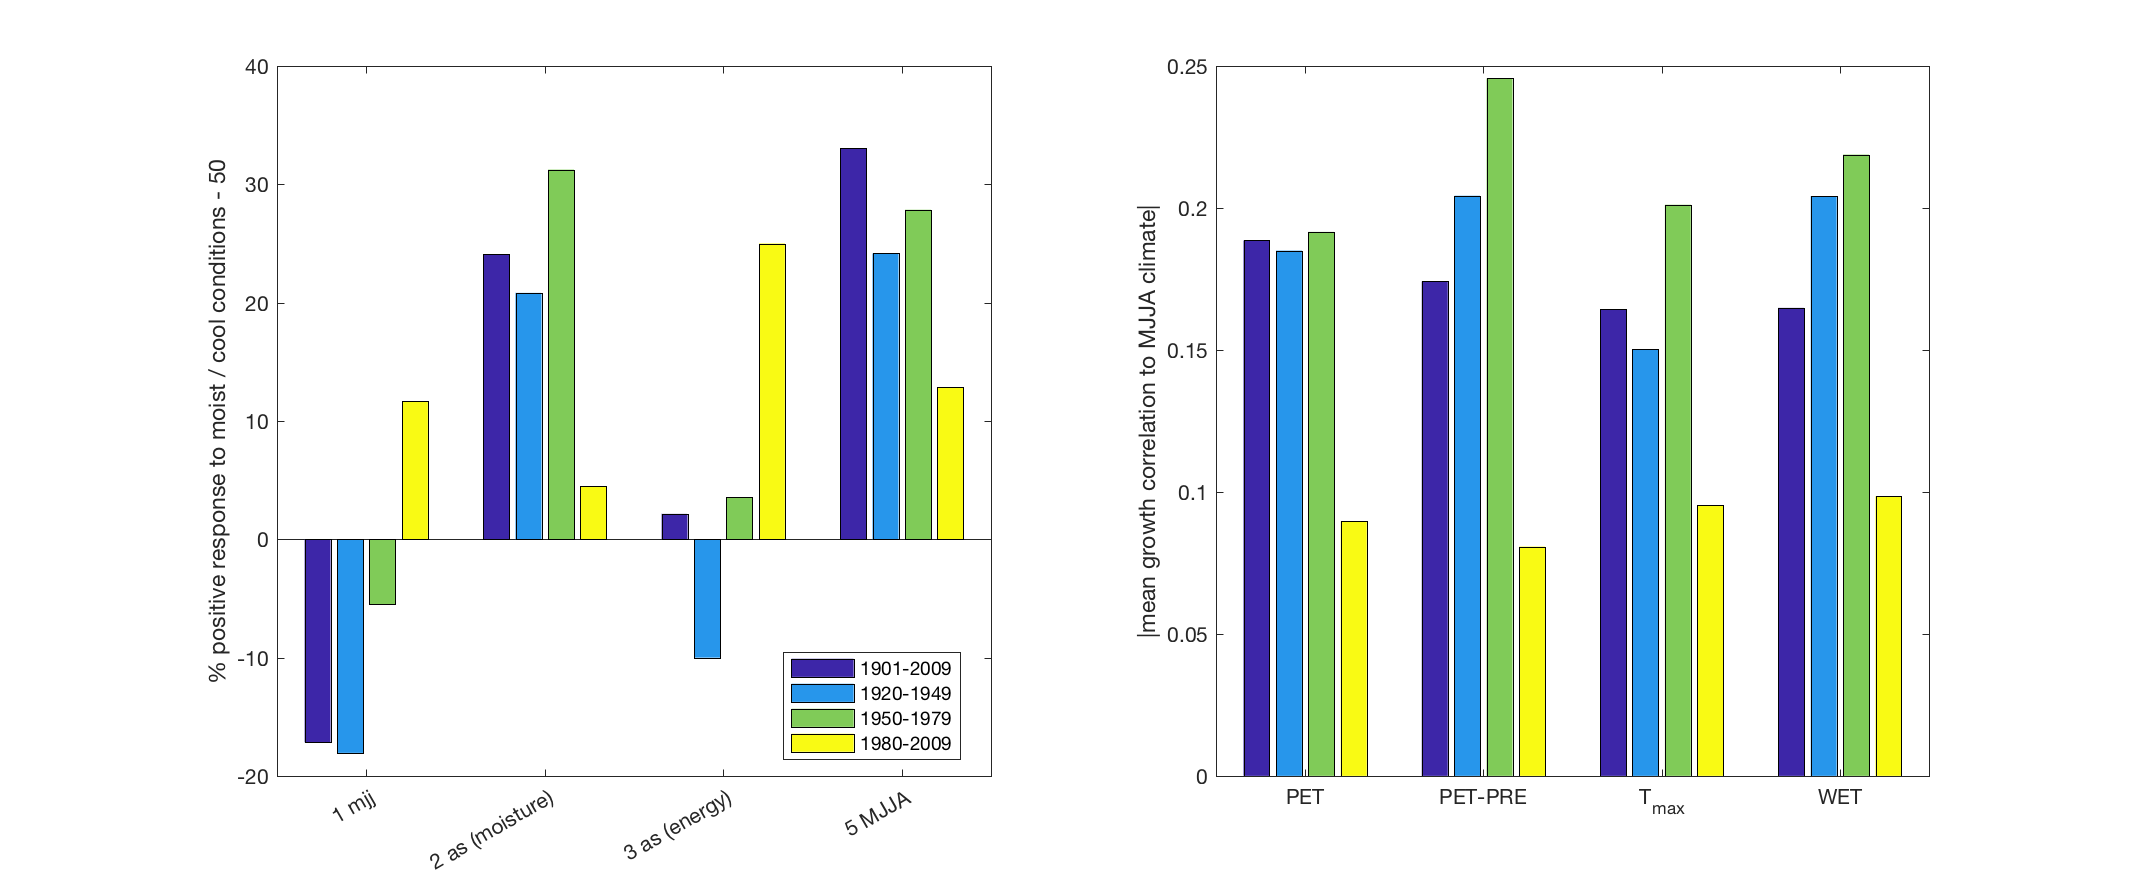
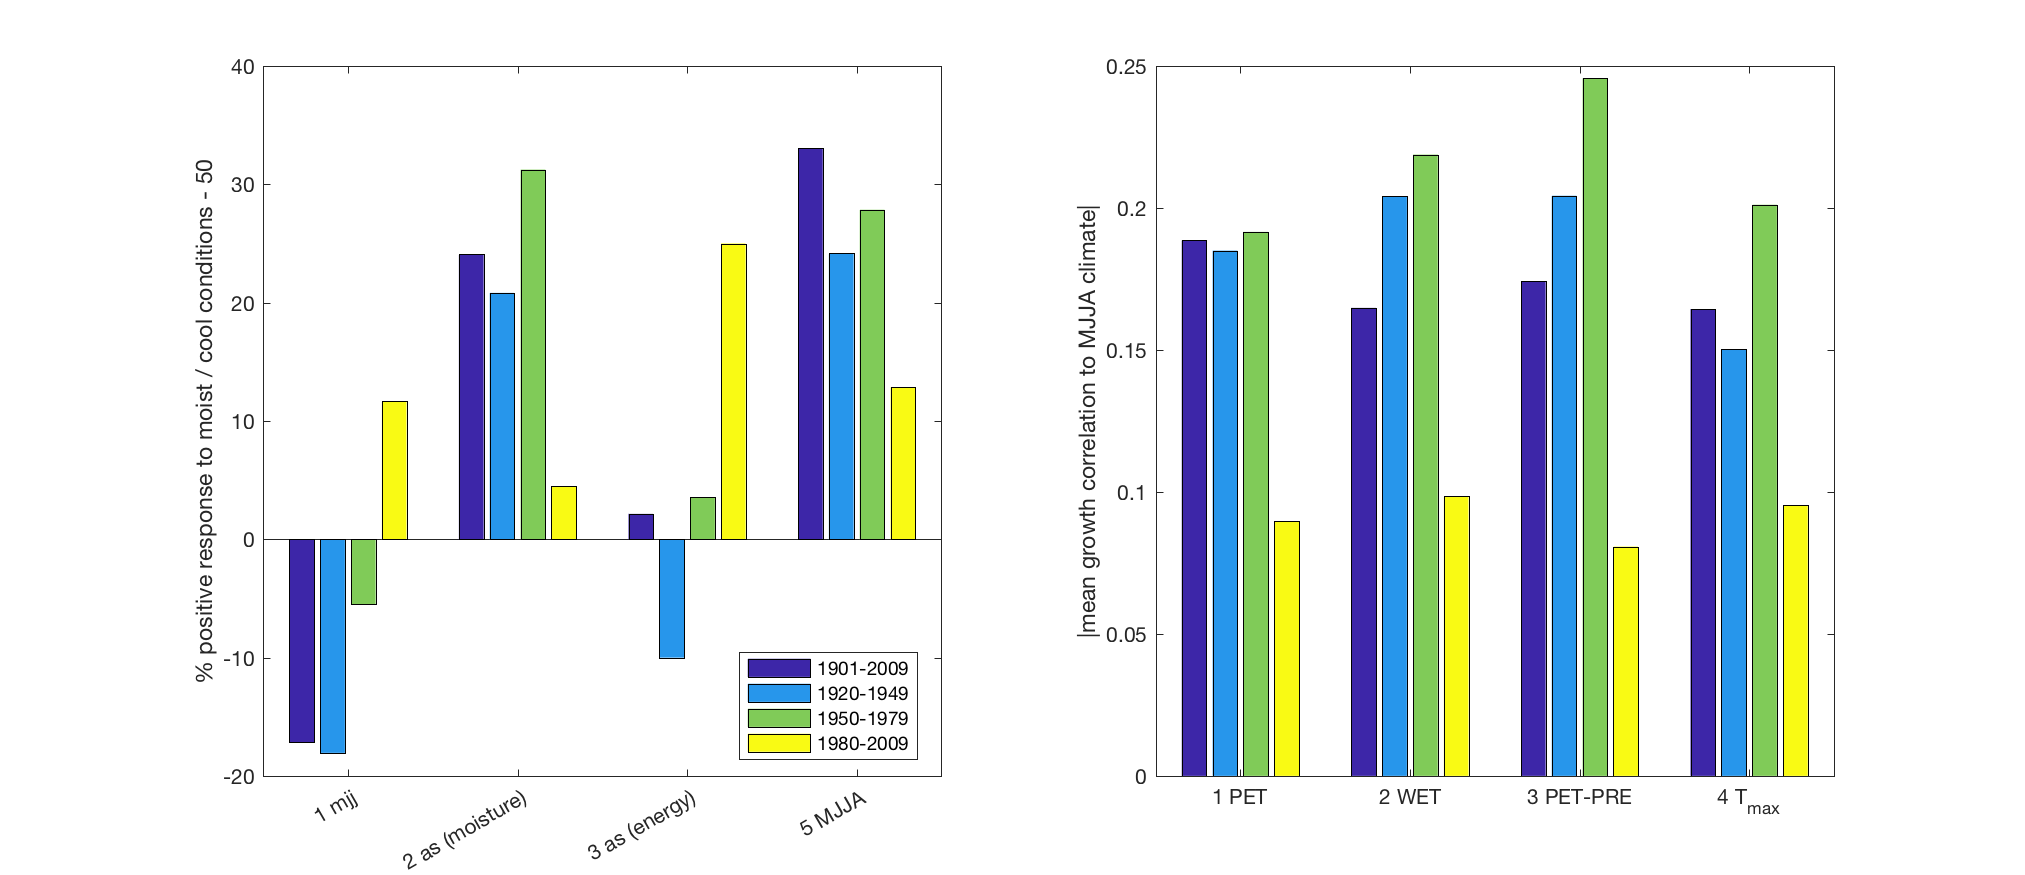
reordered variables on plot b

diff --git a/scripts/time_period_comparison_figure.m b/scripts/time_period_comparison_figure.m
@@ -111,7 +111,7 @@ ylabel('% positive response to moist / cool conditions - 50')
 legend({'1901-2009' '1920-1949' '1950-1979' '1980-2009'},'Location','Best')
 
 subplot(1,2,2)
-x = categorical({'PET' 'WET' 'PET-PRE' 'T_{max}'});
+x = categorical({'1 PET' '2 WET' '3 PET-PRE' '4 T_{max}'});
 y =[abs(mean_corr_PET_mjja); mean_corr_WET_mjja; abs(mean_corr_PETmPRE_mjja); abs(mean_corr_TMAX_mjja)];
 bar (x,y)
 ylabel('|mean growth correlation to MJJA climate|')
